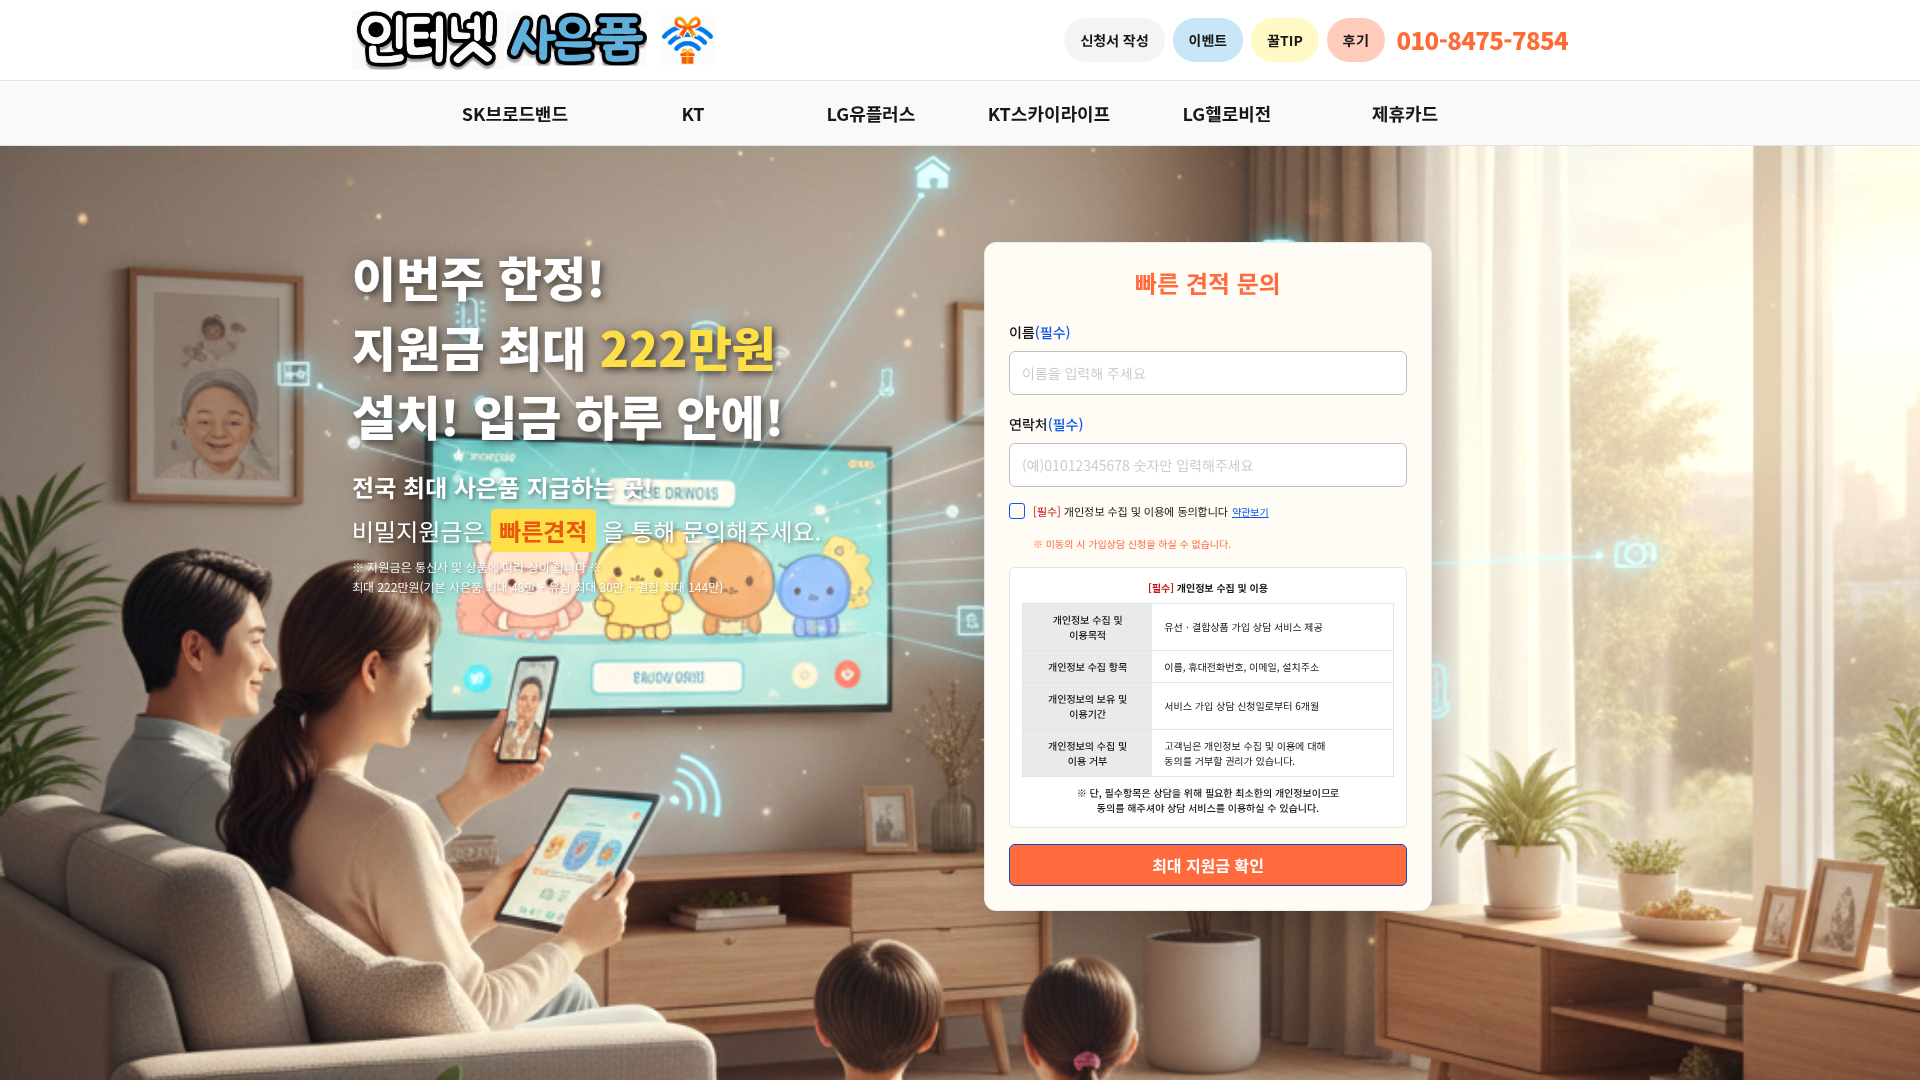
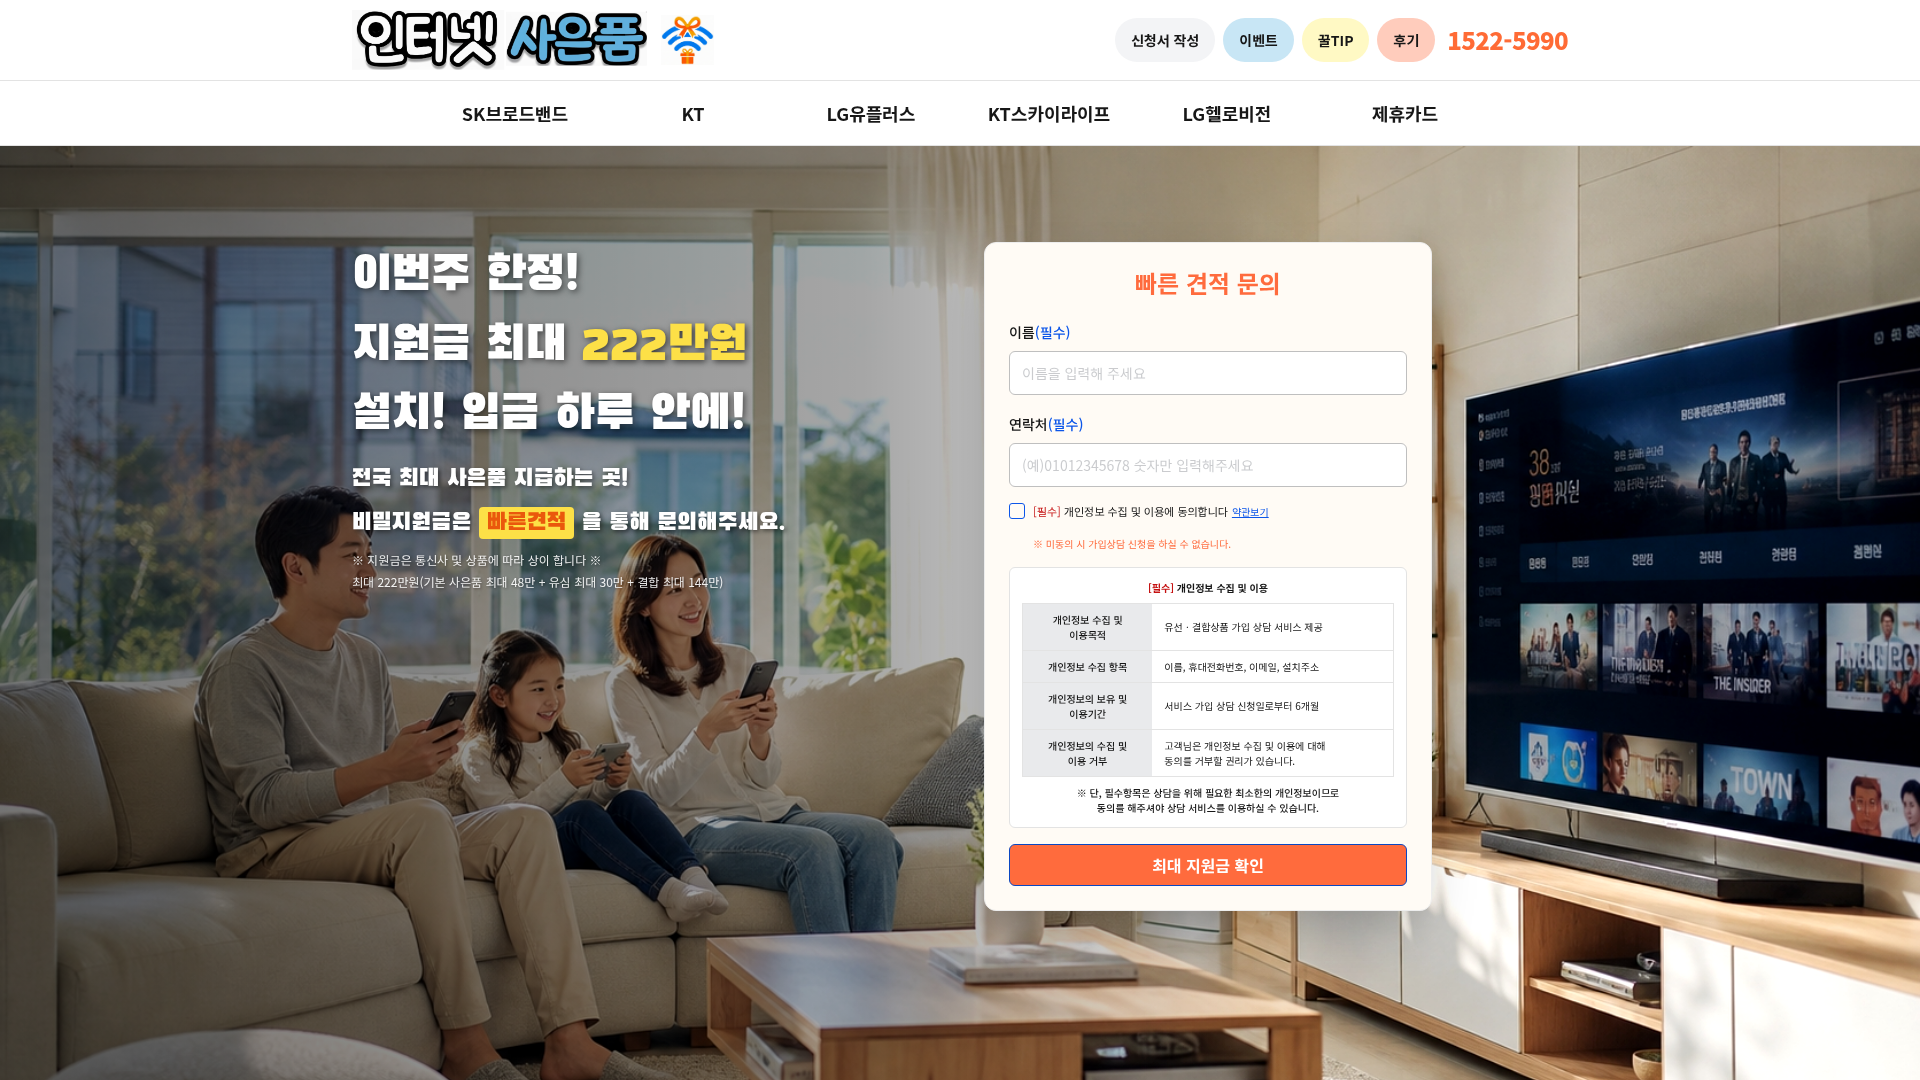
Add real-time applicant status tracker to provider pages
Implement a new `RealtimeApplicants` component, importing it into `ProviderPage.tsx` and placing it below the existing footnote. This component displays an animated count of applicants and a scrolling ticker of recent applications, with the message "너빼고 다 신청중!".

Replit-Commit-Author: Agent
Replit-Commit-Session-Id: da158e66-3de2-4f3d-839e-5644231b84fc
Replit-Commit-Checkpoint-Type: full_checkpoint
Replit-Commit-Event-Id: b37a7001-4ed9-4168-aa6d-772fea437aa8
Replit-Commit-Screenshot-Url: https://storage.googleapis.com/screenshot-production-us-central1/df4dbe27-459d-4ebf-b875-7597b349780b/da158e66-3de2-4f3d-839e-5644231b84fc/pi0rvUs
Replit-Helium-Checkpoint-Created: true

diff --git a/artifacts/internet-gift/src/components/RealtimeApplicants.tsx b/artifacts/internet-gift/src/components/RealtimeApplicants.tsx
@@ -1,0 +1,104 @@
+import React, { useState, useEffect, useRef } from 'react';
+import { motion, AnimatePresence } from 'framer-motion';
+
+const REGIONS = ['서울', '부산', '인천', '대구', '대전', '광주', '수원', '고양', '용인', '성남', '창원', '제주', '울산', '청주', '전주'];
+const NAMES = ['김*현', '이*준', '박*영', '최*민', '정*수', '강*진', '조*희', '윤*호', '장*아', '임*서', '한*지', '신*빈', '오*라', '서*원', '권*현'];
+const PROVIDERS = ['SK브로드밴드', 'KT', 'LG유플러스', 'KT스카이라이프'];
+const TIME_AGO = ['방금 전', '1분 전', '2분 전', '3분 전', '4분 전'];
+
+function randomBetween(min: number, max: number) {
+  return Math.floor(Math.random() * (max - min + 1)) + min;
+}
+
+function randomItem<T>(arr: T[]): T {
+  return arr[Math.floor(Math.random() * arr.length)];
+}
+
+type TickerItem = {
+  id: number;
+  text: string;
+};
+
+export function RealtimeApplicants() {
+  const [count, setCount] = useState(randomBetween(28, 42));
+  const [ticker, setTicker] = useState<TickerItem[]>([]);
+  const idRef = useRef(0);
+
+  useEffect(() => {
+    const initial: TickerItem[] = Array.from({ length: 4 }, () => ({
+      id: idRef.current++,
+      text: `${randomItem(REGIONS)} ${randomItem(NAMES)}님이 ${randomItem(PROVIDERS)} 신청 중`,
+    }));
+    setTicker(initial);
+  }, []);
+
+  useEffect(() => {
+    const countTimer = setInterval(() => {
+      setCount(c => {
+        const delta = Math.random() < 0.5 ? 1 : -1;
+        const next = c + delta;
+        return Math.max(18, Math.min(58, next));
+      });
+    }, randomBetween(2500, 4000));
+    return () => clearInterval(countTimer);
+  }, []);
+
+  useEffect(() => {
+    const tickerTimer = setInterval(() => {
+      const newItem: TickerItem = {
+        id: idRef.current++,
+        text: `${randomItem(REGIONS)} ${randomItem(NAMES)}님이 ${randomItem(PROVIDERS)} 신청 중`,
+      };
+      setTicker(prev => [newItem, ...prev.slice(0, 3)]);
+    }, randomBetween(2000, 3500));
+    return () => clearInterval(tickerTimer);
+  }, []);
+
+  return (
+    <motion.div
+      initial={{ opacity: 0, y: 10 }}
+      animate={{ opacity: 1, y: 0 }}
+      className="mx-auto max-w-lg mb-10 rounded-2xl border border-red-200 bg-red-50 overflow-hidden shadow-sm"
+    >
+      {/* Header */}
+      <div className="flex items-center justify-between px-4 py-2.5 bg-red-500 text-white">
+        <div className="flex items-center gap-2">
+          <span className="relative flex h-2.5 w-2.5">
+            <span className="animate-ping absolute inline-flex h-full w-full rounded-full bg-white opacity-75" />
+            <span className="relative inline-flex rounded-full h-2.5 w-2.5 bg-white" />
+          </span>
+          <span className="font-black text-sm tracking-tight">실시간 신청자 현황</span>
+        </div>
+        <div className="flex items-center gap-1.5 bg-white/20 rounded-full px-3 py-0.5">
+          <span className="font-black text-lg leading-none">{count}</span>
+          <span className="text-xs font-semibold opacity-90">명 신청 중</span>
+        </div>
+      </div>
+
+      {/* Ticker */}
+      <div className="px-4 py-2 space-y-1.5">
+        <AnimatePresence initial={false}>
+          {ticker.map((item) => (
+            <motion.div
+              key={item.id}
+              initial={{ opacity: 0, height: 0, marginBottom: 0 }}
+              animate={{ opacity: 1, height: 'auto', marginBottom: 0 }}
+              exit={{ opacity: 0, height: 0 }}
+              transition={{ duration: 0.3 }}
+              className="flex items-center gap-2 text-xs text-gray-700"
+            >
+              <span className="w-1.5 h-1.5 rounded-full bg-red-400 flex-shrink-0" />
+              <span>{item.text}</span>
+              <span className="text-gray-400 ml-auto flex-shrink-0">{randomItem(TIME_AGO)}</span>
+            </motion.div>
+          ))}
+        </AnimatePresence>
+      </div>
+
+      {/* Footer */}
+      <div className="px-4 py-2 bg-yellow-50 border-t border-yellow-200 text-center">
+        <span className="text-xs font-black text-yellow-700">🔥 너빼고 다 신청중! 지금 바로 확인하세요</span>
+      </div>
+    </motion.div>
+  );
+}

diff --git a/artifacts/internet-gift/src/pages/ProviderPage.tsx b/artifacts/internet-gift/src/pages/ProviderPage.tsx
@@ -4,6 +4,7 @@ import { Header } from '@/components/Header';
 import { ISPNav } from '@/components/ISPNav';
 import { Footer } from '@/components/Footer';
 import { ConsultationModal } from '@/components/ConsultationModal';
+import { RealtimeApplicants } from '@/components/RealtimeApplicants';
 import { motion } from 'framer-motion';
 import { ChevronDown, Wifi, Tv, Box, Smartphone, PhoneCall, FileText } from 'lucide-react';
 
@@ -710,11 +711,13 @@ export default function ProviderPage({ providerKey }: ProviderPageProps) {
             ))}
           </div>
 
-          <p className="text-center text-sm text-gray-500 -mt-10 mb-14">
+          <p className="text-center text-sm text-gray-500 -mt-10 mb-4">
             {['sk', 'kt', 'lg'].includes(providerKey)
               ? '※ 3년약정, VAT 포함가 -휴대폰한대 결합 기준 !-'
               : '※ 3년약정, VAT 포함가'}
           </p>
+
+          <RealtimeApplicants />
 
           {/* SK 결합 할인표 */}
           {provider.key === 'sk' && (
